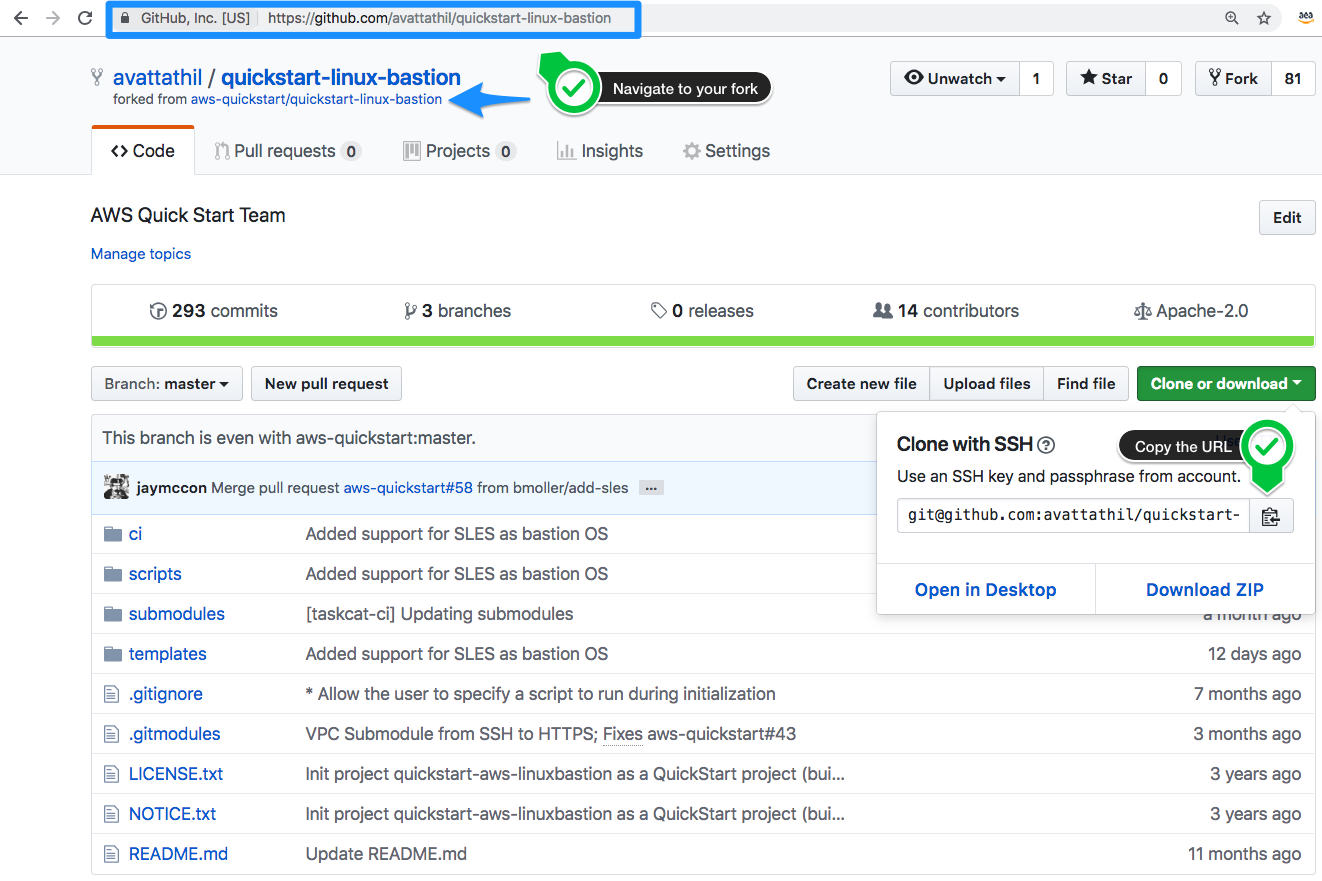
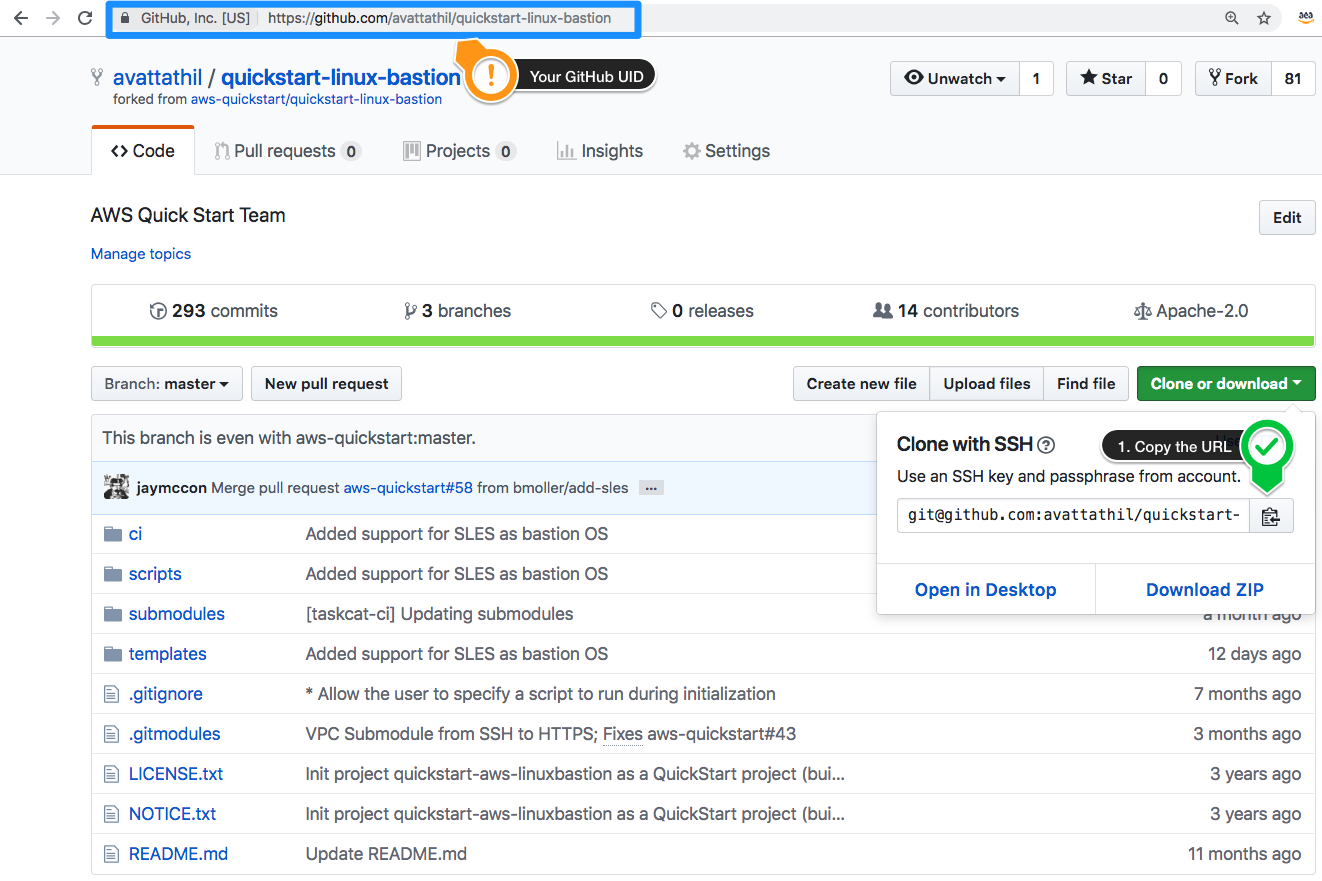
Update screen capture in (get fork url module)

Changed region(s): [[0.3411, 0.0306, 0.5893, 0.1532], [0.8374, 0.4904, 0.9304, 0.521]]

diff --git a/content/70_shipping/20_get_fork_url.md b/content/70_shipping/20_get_fork_url.md
@@ -6,7 +6,9 @@ weight = 20
 
 **Get your fork URL**
 
-Navigate to you GitHub Home page **https://github.com/<your-gitusername>**
+1. Navigate to you GitHub Home page **https://github.com/your-git-username/**
+
+2. Copy you forks url path
 
 ![Get you Clone URL](/images/copy-web-url.png)
 
